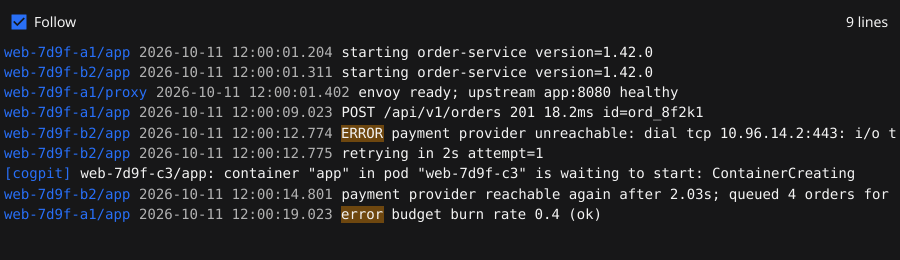
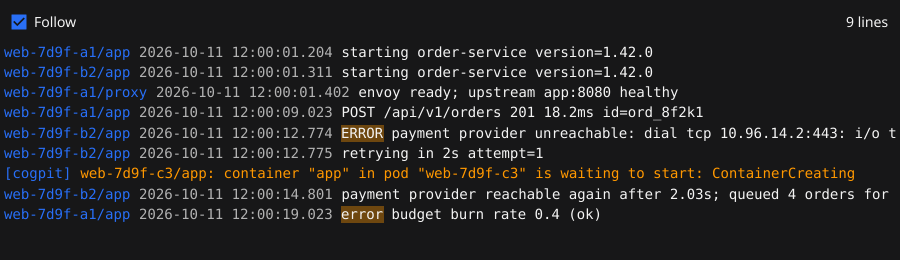
fix(ui): Cogpit's own lines in a log stand apart from the container's
The owner's WF35 of 2026-10-19 (D-58 S7): the marker where a log's connection was lost,
and Cogpit's other notices in a log, are drawn in the warning colour, in a pod's log and
in a merged one.

Changed region(s): [[0.0933, 0.6462, 0.9644, 0.7077]]

diff --git a/internal/ui/fyneui/termview/logview.go b/internal/ui/fyneui/termview/logview.go
@@ -204,9 +204,20 @@ type logRun struct {
 	mark  bool
 }
 
+// noticePrefix starts the lines Cogpit writes into a log itself (engine.NoticePrefix): the marker
+// of an interruption, a lapsed login, a stream that could not be opened again.
+const noticePrefix = "[cogpit]"
+
 // runsOf splits text[from:to] into runs: the name in the accent colour, the timestamp muted, the
-// rest in the foreground colour, matches of search highlighted.
+// rest in the foreground colour, matches of search highlighted. A line of Cogpit's own (a notice
+// such as the marker where the connection was lost) is drawn in the warning colour, apart from the
+// container's lines (the owner's WF35 of 2026-10-19).
 func runsOf(text string, sp shownSpans, from, to int, search string, dst []logRun) []logRun {
+	body := theme.ColorNameForeground
+	if at := max(sp.nameEnd, sp.tsEnd); strings.HasPrefix(text, noticePrefix) || // a merged log's: "[cogpit]" in the name's place
+		at <= len(text) && strings.HasPrefix(strings.TrimLeft(text[at:], " "), noticePrefix) {
+		body = theme.ColorNameWarning
+	}
 	colorAt := func(i int) fyne.ThemeColorName {
 		switch {
 		case i < sp.nameEnd:
@@ -214,7 +225,7 @@ func runsOf(text string, sp shownSpans, from, to int, search string, dst []logRu
 		case i >= sp.tsStart && i < sp.tsEnd:
 			return theme.ColorNamePlaceHolder
 		}
-		return theme.ColorNameForeground
+		return body
 	}
 	// Match ranges within [from, to).
 	var marks [][2]int

diff --git a/internal/ui/fyneui/termview/logview_test.go b/internal/ui/fyneui/termview/logview_test.go
@@ -313,3 +313,25 @@ func TestLogViewSelectsAGroupsSource(t *testing.T) {
 		t.Errorf("source %q %v", src, ok)
 	}
 }
+
+// A line of Cogpit's own is drawn in the warning colour, apart from the container's (WF35): a pod
+// log's marker, a merged log's notice in the name's place, and not a container's line that merely
+// mentions it.
+func TestCogpitsOwnLinesStandApart(t *testing.T) {
+	for _, c := range []struct {
+		view   LogView
+		line   string
+		notice bool
+	}{
+		{LogView{}, "[cogpit] ── no connection 11:00:05 – 11:10:07 CEST (10 min 2 s) · …", true},
+		{LogView{Prefixed: true, Names: true}, "[cogpit] web-7d9f-a1/app: ── no connection 11:00:05 – 11:10:07 CEST (10 min 2 s) · …", true},
+		{LogView{Timestamps: true}, "2026-10-19T09:00:05Z hello [cogpit]", false},
+	} {
+		text, sp := c.view.shown(c.line)
+		runs := runsOf(text, sp, 0, len(text), "", nil)
+		last := runs[len(runs)-1].color
+		if got := last == theme.ColorNameWarning; got != c.notice {
+			t.Errorf("%q: notice colour %v, want %v (runs %+v)", c.line, got, c.notice, runs)
+		}
+	}
+}

diff --git a/docs/developer/usage.md b/docs/developer/usage.md
@@ -703,7 +703,8 @@ interrupted cluster in the background disables the changes to it only, and its s
   (10 min 2 s) · the log was read again from its last line: what was written meanwhile follows ──`,
   from where it stopped: the times are when the last line arrived and when the connection was back,
   with seconds and your time zone (the log's own lines may print another), and the lines the
-  container wrote meanwhile come after it. A port forward waits and connects again at once. A pod shell, a node shell or an attach
+  container wrote meanwhile come after it. Cogpit's own lines in a log (this one, a login that
+  lapsed, a log that could not be opened again) are orange, apart from the container's. A port forward waits and connects again at once. A pod shell, a node shell or an attach
   ends (a process cannot be resumed): its tab says so and offers **Reconnect**, which opens a new
   one in the same tab once the cluster answers. A local terminal is not affected.
 - A drain or a Helm install, upgrade or rollback that was running stops, as after a crash (a drain's

diff --git a/docs/developer/decisions.md b/docs/developer/decisions.md
@@ -5673,7 +5673,8 @@ together ("unable to decode an event from the watch stream").
    2 s) · the log was read again from its last line: what was written meanwhile follows ──", the gap
    from the last line that arrived to the reconnect, with seconds and the zone; until then "—
    interrupted 14:03–14:07 —", the connection watch's interruption in minutes, which a sleep showed as
-   "11:10–11:10" because the watch notices a sleep only at the wake); port forwards keep their backoff but do not dial while
+   "11:10–11:10" because the watch notices a sleep only at the wake; Cogpit's own lines of a log, the
+   marker among them, drawn in the warning colour, apart from the container's lines); port forwards keep their backoff but do not dial while
    interrupted and dial at once after the reconnect; pod shells, the node shell and attach end with
    a note in the tab and a **Reconnect** button that opens a new shell in the same tab (a process
    cannot be resumed); local terminals are not affected.
